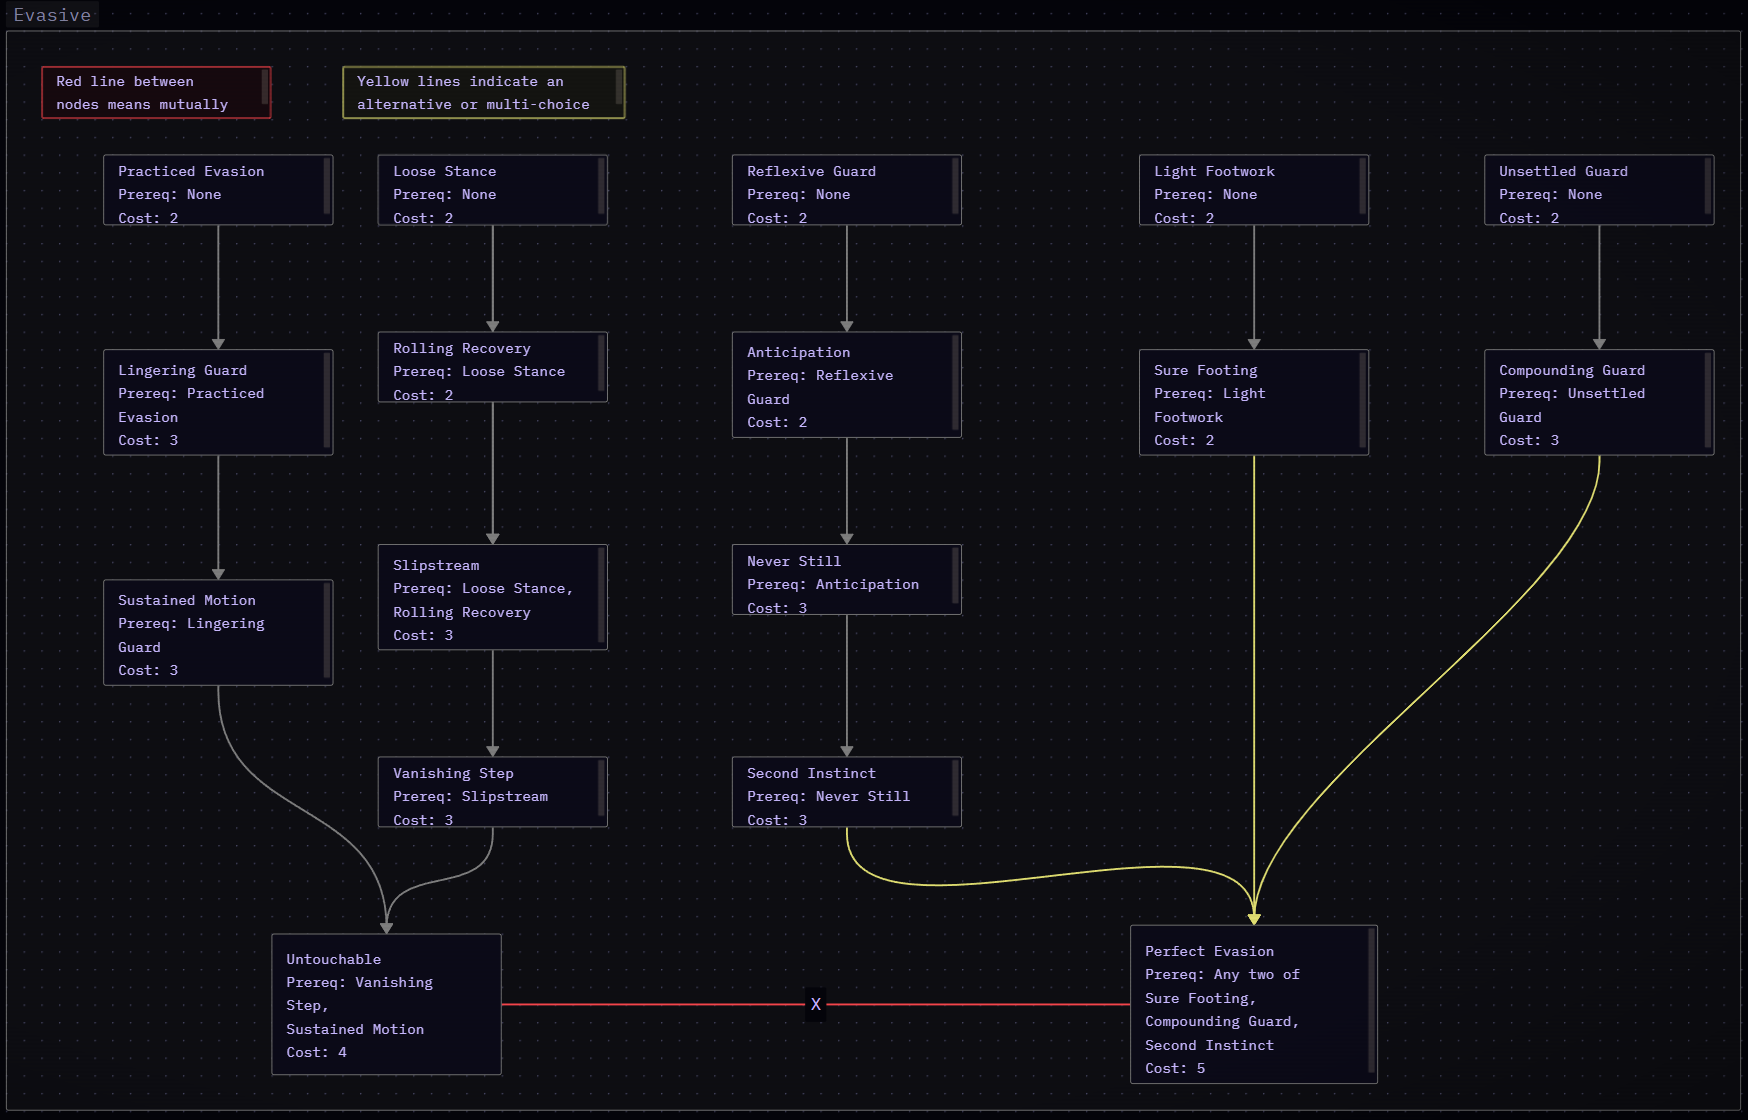
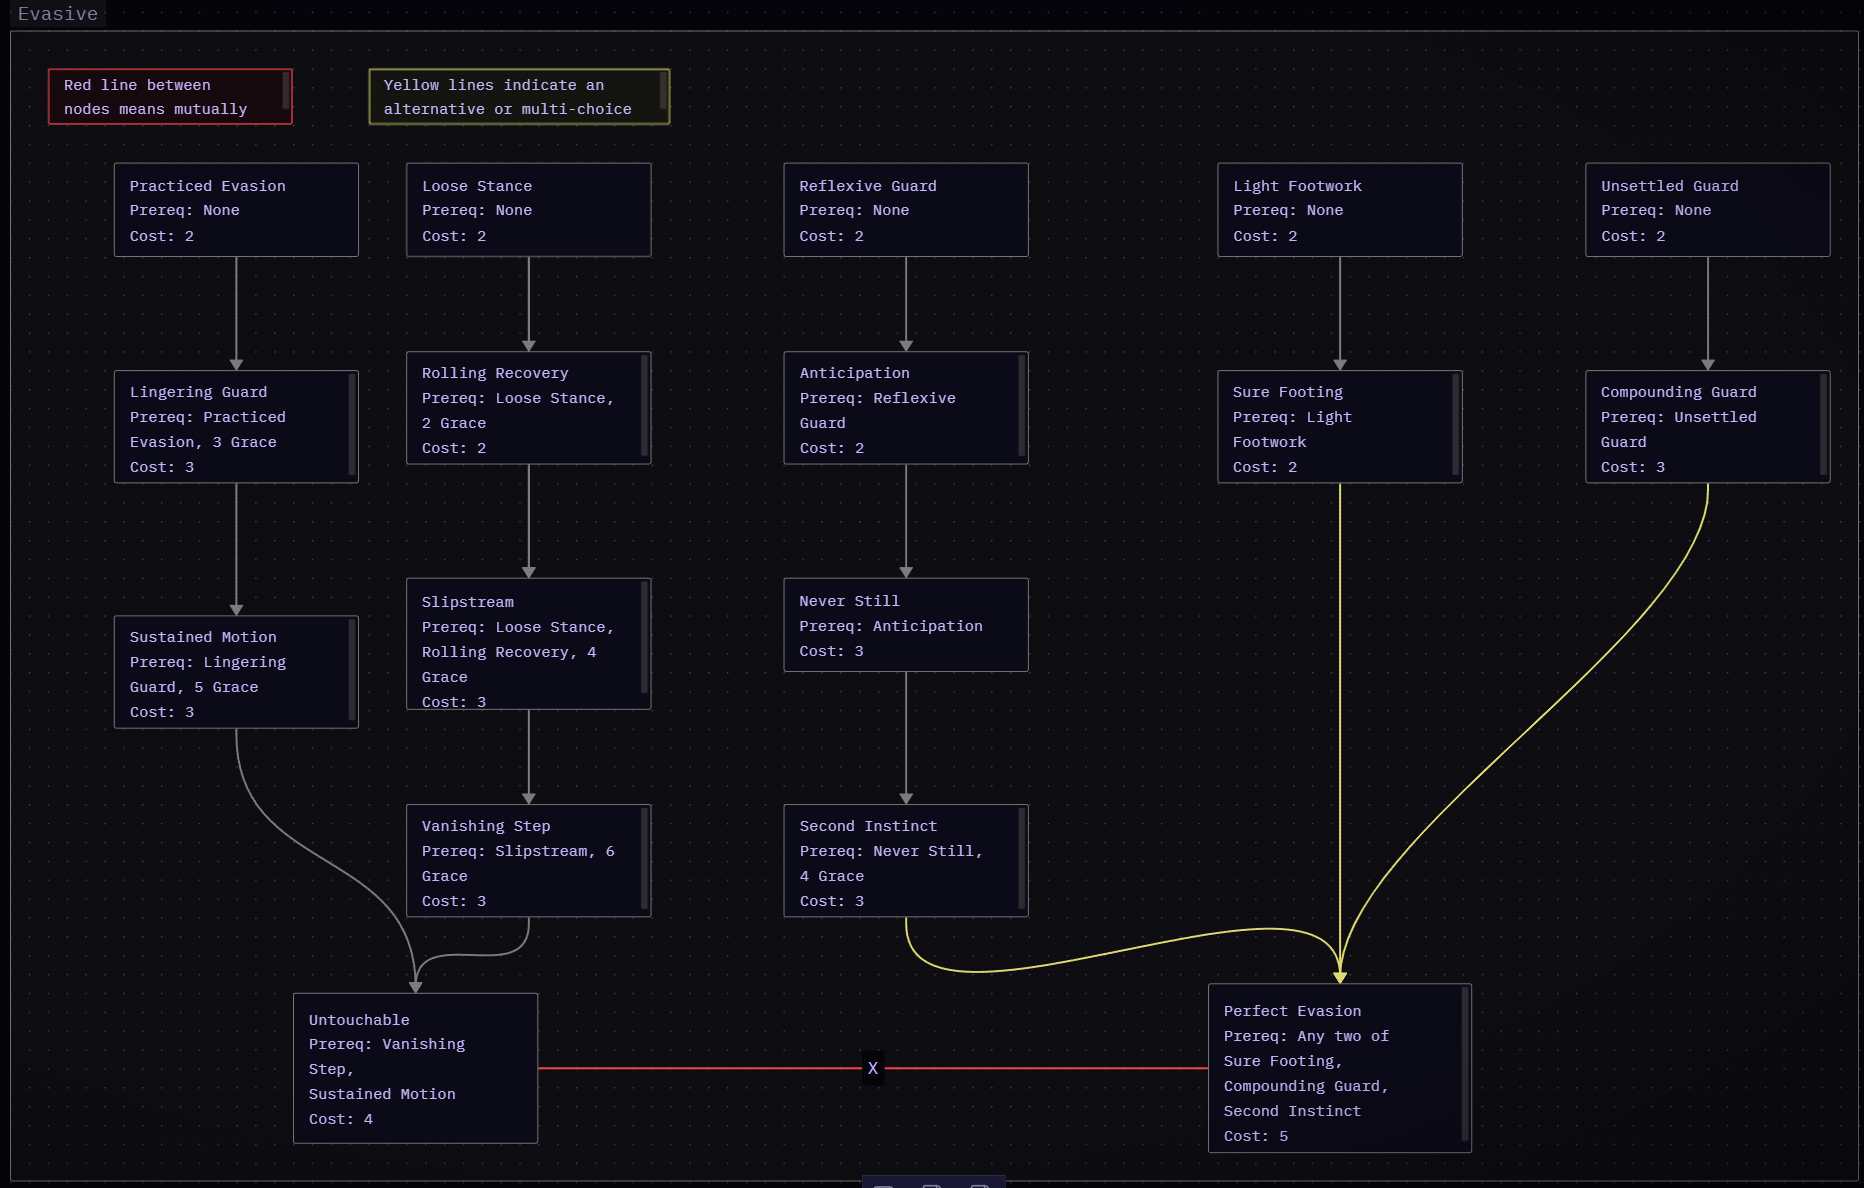
SCREW YOUR COMMIT

diff --git a/Worlds/Solasfall/Disciplines/Defender/Defender.md b/Worlds/Solasfall/Disciplines/Defender/Defender.md
@@ -1,0 +1,81 @@
+---
+tags:
+  - Mechanics/Combat
+  - Discipline
+---
+# Defender
+![[Defender.png]]
+## Braced Guard
+**Prerequisites:** None.
+**Cost:** 2 Trait Points.
+Gain **+1** to your [[Block]] Value.
+
+## Reinforced Guard
+**Prerequisites:** Braced Guard.
+**Cost:** 2 Trait Points.
+The bonus from Braced Guard increases to **+2** total.
+
+## Wide Stance
+**Prerequisites:** None.
+**Cost:** 2 Trait Points.
+Your [[Block]] no longer only applies to your Front Arc — it also applies to [[Facing|attacks]] from your Left and Right Arcs.
+
+## Full Coverage
+**Prerequisites:** Wide Stance.
+**Cost:** 3 Trait Points.
+Your [[Block]] now applies from **any** [[Facing|arc]], including your Rear Arc.
+
+## Fluid Guard
+**Prerequisites:** None.
+**Cost:** 2 Trait Points.
+You may move up to your **full** Walk Travel Rate while maintaining [[Block]], instead of half.
+
+## Shield Bash
+**Prerequisites:** None. Requires a wielded shield.
+**Cost:** 2 Trait Points.
+As a **Half [[Actions|Action]]**, make an [[Attacks|attack]] with your shield: roll **2d10 + [[Attributes|Might]]** against the target's [[Evasion]]. On a hit, deal your shield's Block Die as Blunt [[Damage Types|damage]] and force a [[Attributes|Might]] Test (DN 10 + your [[Attributes|Might]]) or the target is knocked **Prone**.
+
+## Punishing Block
+**Prerequisites:** Shield Bash.
+**Cost:** 3 Trait Points.
+Whenever your [[Block]] reduces an incoming hit's [[Damage Types|damage]] to 0 before [[Sturdiness]], you may immediately make a free **Shield Bash** at no [[Actions|Action]] cost, resolving at the [[Ticks, Priority & Resolution|Priority]] the [[Block]] triggered.
+
+## Retaliatory Guard
+**Prerequisites:** None.
+**Cost:** 2 Trait Points.
+Whenever your [[Block]] reduces an incoming hit's [[Damage Types|damage]] to 0 before [[Sturdiness]], you may make a free counter-[[Attacks|attack]] with your [[Weapon|weapon]] at **–2**, resolving at the [[Ticks, Priority & Resolution|Priority]] the [[Block]] triggered. This does not consume your [[Actions|Action]] economy, but you cannot combine it with Punishing Block's free Shield Bash on the same trigger — choose one.
+
+## Steady Recovery
+**Prerequisites:** Braced Guard.
+**Cost:** 2 Trait Points.
+Once per Rest, if a single hit would reduce your [[Block]] Value to 0 for the remainder of the [[Rounds|Round]] (such as from the **Crushing** [[Weapon Traits|trait]]), you may immediately restore it to its full value as a free [[Actions|action]].
+
+## Overlapping Defence
+**Prerequisites:** Wide Stance.
+**Cost:** 3 Trait Points.
+While an ally is within your melee threat [[Range & Threat|range]] and you are both maintaining [[Block]], you may grant them **+2** to their [[Block]] Value instead of applying it to your own for that [[Rounds|Round]].
+
+## Weight Behind It
+**Prerequisites:** Shield Bash, 3 [[Attributes|Might]].
+**Cost:** 3 Trait Points.
+Your Shield Bash [[Attacks|attack]] deals **+2** [[Damage Types|damage]] and pushes the target **1m** directly away from you on a hit, in addition to its normal Prone Test.
+
+## Unrelenting Guard
+**Prerequisites:** Reinforced Guard, 4 [[Attributes|Might]].
+**Cost:** 3 Trait Points.
+The bonus from Braced Guard and Reinforced Guard increases to **+4** total, reflecting the sheer physical strength needed to hold a guard against the heaviest blows.
+
+## Bulwark Stance
+**Prerequisites:** Full Coverage, 5 [[Attributes|Might]].
+**Cost:** 4 Trait Points.
+As a **Full [[Actions|Action]]**, you may root yourself in place: until the start of your next turn, your [[Block]] Value is doubled, but you cannot voluntarily move for the duration (forced [[Movement Types|movement]] still applies normally).
+
+## Unbroken Wall
+**Prerequisites:** Reinforced Guard, Full Coverage.
+**Cost:** 3 Trait Points.
+Your [[Block]] no longer needs to be redeclared each [[Rounds|Round]] — once declared, it remains active on subsequent Rounds until you voluntarily switch [[Defensive Stances|stance]], are incapacitated, or choose to stop.
+
+## Immovable Object
+**Prerequisites:** Any two of Punishing Block, Retaliatory Guard, Overlapping Defence, or Unbroken Wall.
+**Cost:** 4 Trait Points.
+Your [[Block]] Value can no longer be reduced by the **Crushing** [[Weapon Traits|trait]] or similar effects that specifically target Block DR. Additionally, while [[Block]] is active you have **Advantage** on Tests to resist being knocked Prone or forcibly moved.

diff --git a/Worlds/Solasfall/Disciplines/Armour Mastery/Armour Mastery.md b/Worlds/Solasfall/Disciplines/Armour Mastery/Armour Mastery.md
@@ -1,0 +1,76 @@
+---
+tags:
+  - Mechanics/Combat
+  - Discipline
+---
+# Armour Mastery
+![[Armour Mastery.png]]
+## Worn In
+**Prerequisites:** None.
+**Cost:** 2 Trait Points.
+Reduce the [[Solasfall Armour|Evasion]] Modifier penalty from any armour you wear by **1** (minimum 0 penalty reduction per piece — this cannot turn a penalty into a bonus).
+
+## Broken In
+**Prerequisites:** Worn In.
+**Cost:** 2 Trait Points.
+The [[Evasion]] Modifier reduction from Worn In increases to **2** total.
+
+## Sure Stride
+**Prerequisites:** None.
+**Cost:** 2 Trait Points.
+Reduce the Walk and Run [[Movement Types|Movement]] penalty imposed by your worn armour by **1m** each.
+
+## Steady Gait
+**Prerequisites:** Sure Stride.
+**Cost:** 2 Trait Points.
+Reduce the Climb and Jump [[Movement Types|Movement]] penalty imposed by your worn armour by **1m** each, in addition to Sure Stride's Walk and Run reduction.
+
+## Tempered Frame
+**Prerequisites:** None.
+**Cost:** 2 Trait Points.
+Reduce the effective [[Attributes|Might]] Requirement of any armour you wear by **1** for the purposes of determining whether you can use it effectively.
+
+## Second Skin
+**Prerequisites:** Tempered Frame.
+**Cost:** 2 Trait Points.
+The [[Attributes|Might]] Requirement reduction from Tempered Frame increases to **2** total.
+
+## Armour Training
+**Prerequisites:** None.
+**Cost:** 3 Trait Points.
+You are considered **Trained** for the purposes of using [[Dodge]] in Half Plate or Full Plate — see [[Solasfall Armour]]. Without this node, Half Plate and Full Plate prevent Dodge entirely; with it, you gain the Trained benefits those armours list.
+
+## Reinforced Movement
+**Prerequisites:** Armour Training.
+**Cost:** 2 Trait Points.
+The **–1m distance moved** penalty that [[Dodge]] suffers while Trained in Chainmail, Half Plate, or Full Plate no longer applies to you.
+
+## Full Mobility
+**Prerequisites:** Reinforced Movement.
+**Cost:** 3 Trait Points.
+While wearing Full Plate and Dodging, you use your full [[Attributes|Grace]] bonus to Evasion instead of the reduced Grace ÷ 3 (rounded down) that Full Plate normally imposes on a Trained wearer.
+
+## Absorbing Plates
+**Prerequisites:** None.
+**Cost:** 2 Trait Points.
+While wearing armour with a DR of 2 or higher, gain **+1 DR** against the first instance of physical [[Damage Types|damage]] you take each [[Rounds|Round]].
+
+## Layered Protection
+**Prerequisites:** Absorbing Plates.
+**Cost:** 3 Trait Points.
+Absorbing Plates' bonus increases to **+2 DR**, and now applies to the first **two** instances of physical [[Damage Types|damage]] you take each [[Rounds|Round]] rather than only the first.
+
+## Deflecting Angles
+**Prerequisites:** Broken In.
+**Cost:** 3 Trait Points.
+Once per [[Rounds|Round]], when a melee [[Attacks|attack]] against you would be a Critical Success, you may make a [[Attributes|Grace]] Test (DN 14). On success, the [[Attacks|attack]] is treated as a normal success instead — your armour's angled surfaces turn what should have been a solid hit into a glancing one.
+
+## Unshakeable Bearing
+**Prerequisites:** Steady Gait, Second Skin.
+**Cost:** 3 Trait Points.
+While wearing armour that meets its Might Requirement (after reductions from this tree), you have **Advantage** on Tests made to resist being knocked Prone or forcibly moved.
+
+## Second Nature
+**Prerequisites:** Any two of Full Mobility, Layered Protection, or Deflecting Angles.
+**Cost:** 4 Trait Points.
+Choose one armour tier (Brigandine, Chainmail, Half Plate, or Full Plate). While wearing armour of that specific tier, treat its [[Evasion]] Modifier and Movement penalties as one tier lighter (e.g. Full Plate behaves as Half Plate for these purposes only), stacking with all other reductions from this tree. This does not change the armour's DR, Might Requirement, or Dodge training requirement.

diff --git a/Worlds/Solasfall/Disciplines/Duelist/Duelist.md b/Worlds/Solasfall/Disciplines/Duelist/Duelist.md
@@ -1,0 +1,76 @@
+---
+tags:
+  - Mechanics/Combat
+  - Discipline
+---
+# Duelist
+![[Duelist.png]]
+## Sure Parry
+**Prerequisites:** None. 
+**Cost:** 2 Trait Points.
+Gain **+1** to your [[Parry]] Test.
+
+## Confident Parry
+**Prerequisites:** Sure Parry.
+**Cost:** 2 Trait Points. 
+The bonus from Sure Parry increases to **+2** total.
+
+## Unbroken Rhythm
+**Prerequisites:** None.
+**Cost:** 2 Trait Points. 
+Your **second** Parry attempt in a [[Rounds|Round]] is no longer made at Disadvantage from [[Parry#Successive Parries|Successive Parries]]. The Disadvantage now begins on your third attempt instead.
+
+## Flowing Defence
+**Prerequisites:** Unbroken Rhythm.
+**Cost:** 3 Trait Points.
+Your **third** Parry attempt in a [[Rounds|Round]] is also no longer made at Disadvantage. The Disadvantage now begins on your fourth attempt instead.
+
+## Counter Flow
+**Prerequisites:** None. 
+**Cost:** 2 Trait Points.
+When you choose to make a counter-[[Attacks|attack]] after a successful Parry, your [[Parry]] stance does not end — you may continue Parrying for the remainder of the [[Rounds|Round]] as normal, subject to Successive Parries.
+
+## Read the Strike
+**Prerequisites:** None.
+**Cost:** 2 Trait Points.
+If you have not yet acted this [[Rounds|Round]], your first Parry Test this Round is made with **Advantage**.
+
+## Answering Blow
+**Prerequisites:** Counter Flow.
+**Cost:** 3 Trait Points.
+Your counter-[[Attacks|attack]] after a successful Parry deals **+1** [[Damage Types|damage]] die of your [[Weapon|weapon]]'s type.
+
+## Fluid Guard
+**Prerequisites:** Sure Parry, 3 [[Attributes|Grace]].
+**Cost:** 3 Trait Points. 
+You no longer suffer Disadvantage on a Parry Test from a lower [[Ticks, Priority & Resolution|Priority]] Parry compared to the incoming [[Attacks|attack]]'s [[Ticks, Priority & Resolution|Priority]].
+
+## Blade Dancer
+**Prerequisites:** Confident Parry, 4 [[Attributes|Grace]]. 
+**Cost:** 3 Trait Points.
+You score a Critical Success on a Parry Test on a natural roll of **9 or 10**, instead of only a natural 10.
+
+## Weightless Step
+**Prerequisites:** Read the Strike, 4 [[Attributes|Grace]].
+**Cost:** 3 Trait Points.
+When you fail a Parry Test due to a failed [[Attributes|Grace]] Test (not due to [[Ticks, Priority & Resolution|Priority]]), you may spend your Reaction to reduce the [[Damage Types|damage]] die increase from **+2 to +1**, provided you have not already used your Reaction this [[Rounds|Round]].
+
+## Perfect Deflection
+**Prerequisites:** Fluid Guard, 5 [[Attributes|Grace]]. 
+**Cost:** 4 Trait Points. 
+Once per [[Rounds|Round]], a failed Parry Test may instead be treated as a success, provided the margin of failure was **3 or less**. This does not apply to Critical Failures.
+
+## Reactive Parry
+**Prerequisites:** None.
+**Cost:** 3 Trait Points.
+You may use [[Parry]] as a **Reaction** even if you did not declare it during the Declaration Phase, functioning like Reactive [[Dodge]]'s alternate use — usable when targeted by a melee [[Attacks|attack]] requiring a roll. It resolves as a standard Parry Test but grants **no** counter-[[Attacks|attack]] option, and ends immediately after resolving the triggering [[Attacks|attack]]. This does not require you to have declared Parry stance, but still consumes your Reaction for the [[Rounds|Round]].
+
+## Snap Deflection
+**Prerequisites:** Reactive Parry, 4 [[Attributes|Grace]]. 
+**Cost:** 3 Trait Points.
+Once per [[Rounds|Round]], you may use Reactive Parry even if you have already used your Reaction this Round, provided this is the first time you've done so this Round.
+
+## Perpetual Guard
+**Prerequisites:** Any two of Flowing Defence, Answering Blow, Blade Dancer, or Snap Deflection. 
+**Cost:** 4 Trait Points.
+You may declare [[Parry]] stance as normal **and** still use Reactive Parry against a different attacker later in the same [[Rounds|Round]], rather than the two being mutually exclusive with your Reaction use. Reactive Parry used this way still consumes your Reaction unless Snap Deflection's condition is met.

diff --git a/Core/Combat/Defence/Parry.md b/Core/Combat/Defence/Parry.md
@@ -47,7 +47,7 @@ If you continue Parrying:
 ## Counter-[[Attacks|Attack]]
 If chosen:
 - Resolves at the [[Ticks, Priority & Resolution|Priority]] of the incoming [[Attacks|attack]]
-- DoePriority consume [[Actions|Action]] economy
+- Doesn't consume [[Actions|Action]] economy
 - Ends Parry stance afterward
 
 ## Restrictions